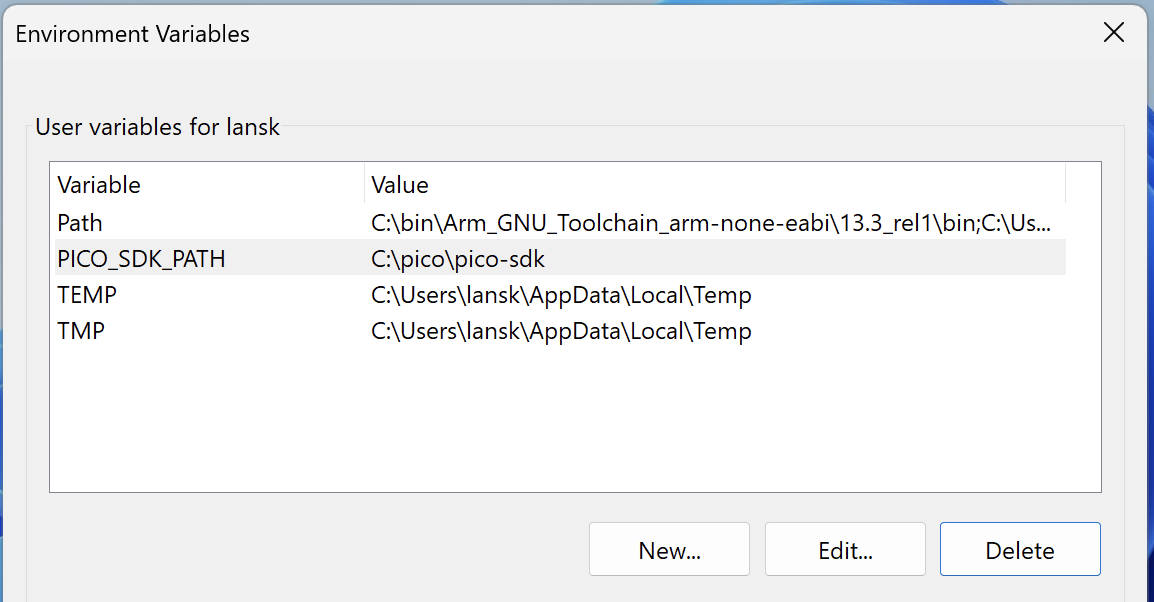
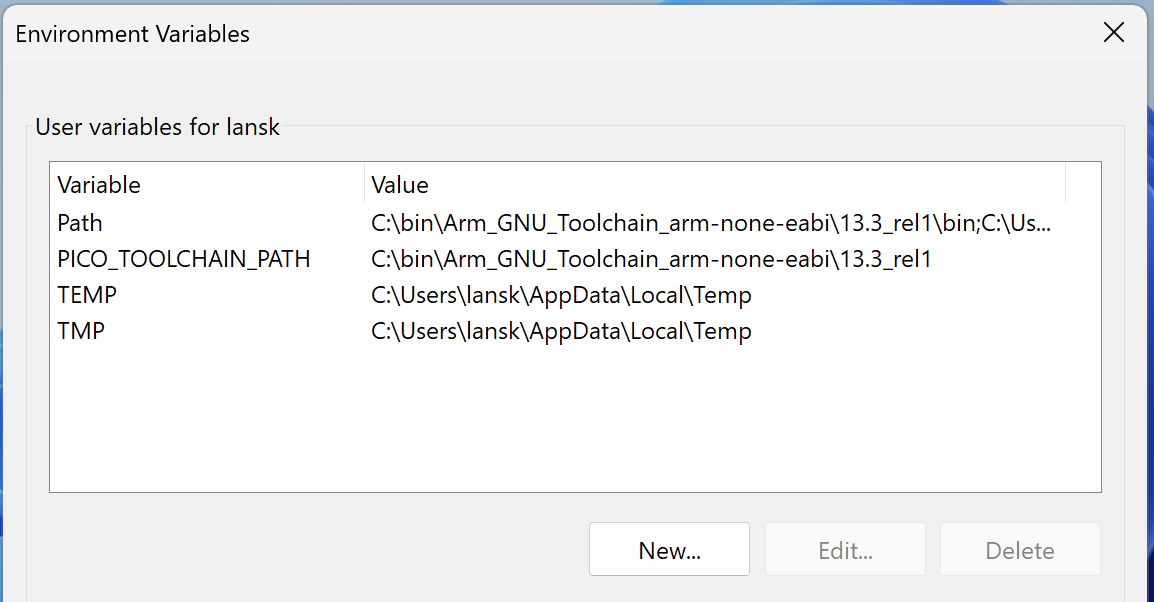
Updated installation instructions.

diff --git a/README.md b/README.md
@@ -36,6 +36,12 @@ Run the installer and **make sure to tick the "Add path to environment variable"
 
 ![Screenshot of "Add path to environment variable" checkbox](docs/images/toolchain-path-checkbox.png?raw=true)
 
+CMake, the build generator of RPi Pico projects, need to know where the C/C++ compilef for RPi Pico is located.
+The easiest way to pass this information to CMake is through environment variable "PICO_TOOLCHAIN_PATH".
+On Windows the environment variables are set through "Edit environment variables for your account"
+
+![Screenshot of environment variable editor with PICO_TOOLCHAIN_PATH defined](docs/images/windows_environment_1.png?raw=true)
+
 ---
 
 ### Step 2: Cloning the SDK
@@ -55,7 +61,7 @@ CMake, the build generator of RPi Pico projects, need to know where the SDK is l
 The easiest way to pass this information to CMake is through environment variable "PICO_SDK_PATH".
 On Windows the environment variables are set through "Edit environment variables for your account"
 
-![Screenshot of environment variable editor with PICO_SDK_PATH defined](docs/images/windows_environment_1.png?raw=true)
+![Screenshot of environment variable editor with PICO_SDK_PATH defined](docs/images/windows_environment.png?raw=true)
 
 ---
 
